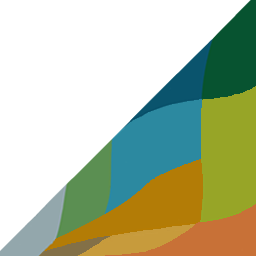
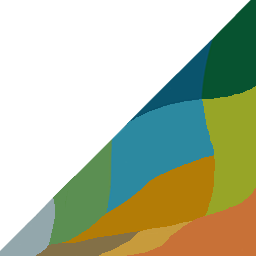
climate tweaks + river mouth width modifier

diff --git a/src/main/java/com/terraforged/world/terrain/decorator/DesertDunes.java b/src/main/java/com/terraforged/world/terrain/decorator/DesertDunes.java
@@ -27,6 +27,7 @@ package com.terraforged.world.terrain.decorator;
 
 import com.terraforged.core.cell.Cell;
 import com.terraforged.world.GeneratorContext;
+import com.terraforged.world.biome.BiomeType;
 import com.terraforged.world.heightmap.Levels;
 import com.terraforged.world.terrain.Terrain;
 import com.terraforged.world.terrain.Terrains;
@@ -43,7 +44,7 @@ public class DesertDunes implements Decorator {
 
     private final Levels levels;
     private final Terrains terrains;
-    private final Terrain dunes = new Terrain("dunes", 100);
+    private final Terrain dunes = new Terrain("dunes", 1);
 
     public DesertDunes(GeneratorContext context) {
         this.climateMin = 0.6F;
@@ -58,18 +59,18 @@ public class DesertDunes implements Decorator {
 
     @Override
     public boolean apply(Cell cell, float x, float y) {
-        float temp = cell.temperature;
-        float moisture = 1 - cell.moisture;
-        float climate = temp * moisture;
-        if (climate < climateMin) {
+        if (BiomeType.DESERT != cell.biomeType) {
+            return false;
+        }
+
+        if (cell.terrainType != terrains.plains && cell.terrainType != terrains.steppe) {
             return false;
         }
 
         float duneHeight = module.getValue(x, y);
-        float climateMask = climate > climateMax ? 1F : (climate - climateMin) / climateRange;
-        float regionMask = cell.mask(0.4F, 0.5F, 0,0.8F);
+        float mask = cell.biomeEdge * cell.riverMask * cell.regionEdge;
 
-        float height = duneHeight * climateMask * regionMask;
+        float height = duneHeight * mask;
         cell.value += height;
         cell.terrainType = dunes;
 

diff --git a/src/main/java/com/terraforged/world/rivermap/river/River.java b/src/main/java/com/terraforged/world/rivermap/river/River.java
@@ -32,6 +32,7 @@ import com.terraforged.world.terrain.Terrains;
 import me.dags.noise.Module;
 import me.dags.noise.Source;
 import me.dags.noise.func.CurveFunc;
+import me.dags.noise.func.Interpolation;
 import me.dags.noise.func.SCurve;
 import me.dags.noise.source.Line;
 import me.dags.noise.util.NoiseUtil;
@@ -139,8 +140,9 @@ public class River extends TerrainPopulator implements Comparable<River> {
             return;
         }
 
+        float mouthModifier = getMouthModifier(cell);
         float widthModifier = banks.getWidthModifier(x, z);
-        float banksAlpha = banks.getValue(x, z, MIN_WIDTH2, widthModifier);
+        float banksAlpha = banks.getValue(x, z, MIN_WIDTH2, widthModifier / mouthModifier);
         if (banksAlpha == 0) {
             return;
         }
@@ -187,6 +189,9 @@ public class River extends TerrainPopulator implements Comparable<River> {
         // lerp the position's height to the riverbed height (ie the riverbank slopes)
         if (cell.value > bedHeight) {
             cell.value = NoiseUtil.lerp(cell.value, bedHeight, banksAlpha);
+            if (cell.value < bedHeight) {
+                cell.value = bedHeight;
+            }
             tag(cell, terrains.riverBanks);
             return true;
         }
@@ -198,6 +203,10 @@ public class River extends TerrainPopulator implements Comparable<River> {
         tag(cell, terrains.river);
     }
 
+    private float getMouthModifier(Cell cell) {
+        float modifier = NoiseUtil.map(cell.continentEdgeRaw, 0F, 0.5F, 0.5F);
+        return modifier * modifier;
+    }
 
     private void tag(Cell cell, Terrain tag) {
         cell.terrainType = tag;

diff --git a/src/main/java/com/terraforged/world/climate/ClimateModule.java b/src/main/java/com/terraforged/world/climate/ClimateModule.java
@@ -91,7 +91,11 @@ public class ClimateModule {
                 .warp(seed.next(), tempScale, 1, tempScale);
     }
 
-    public void apply(Cell cell, float x, float y, boolean mask) {
+    public void apply(Cell cell, float x, float y) {
+        apply(cell, x, y, false, true);
+    }
+
+    public void apply(Cell cell, float x, float y, boolean maskOnly, boolean mask) {
         float ox = warpX.getValue(x, y) * warpStrength;
         float oz = warpZ.getValue(x, y) * warpStrength;
 
@@ -139,14 +143,17 @@ public class ClimateModule {
             }
         }
 
-        if (mask) {
+        if (maskOnly) {
             cell.biomeEdge = edgeValue(edgeDistance, edgeDistance2);
         } else {
             float biomeX = cellX + vec2f.x;
             float biomeY = cellY + vec2f.y;
 
+            if (mask) {
+                cell.biomeEdge = edgeValue(edgeDistance, edgeDistance2);
+            }
+
             cell.biome = cellValue(seed, cellX, cellY);
-            cell.biomeEdge = edgeValue(edgeDistance, edgeDistance2);
             cell.moisture = moisture.getValue(biomeX, biomeY);
             cell.temperature = temperature.getValue(biomeX, biomeY);
             modifyMoisture(cell, biomeX / biomeFreq, biomeY / biomeFreq);
@@ -177,6 +184,9 @@ public class ClimateModule {
         EdgeFunc edge = EdgeFunc.DISTANCE_2_DIV;
         float value = edge.apply(distance, distance2);
         value = 1 - NoiseUtil.map(value, edge.min(), edge.max(), edge.range());
+        if (true) {
+            return value;
+        }
         if (value > edgeClamp) {
             return 1F;
         }

diff --git a/src/main/java/com/terraforged/world/terrain/decorator/DesertStacks.java b/src/main/java/com/terraforged/world/terrain/decorator/DesertStacks.java
@@ -31,6 +31,7 @@ import com.terraforged.world.biome.BiomeType;
 import com.terraforged.world.heightmap.Levels;
 import me.dags.noise.Module;
 import me.dags.noise.Source;
+import me.dags.noise.util.NoiseUtil;
 
 public class DesertStacks implements Decorator {
 
@@ -45,10 +46,9 @@ public class DesertStacks implements Decorator {
         Module shape = Source.perlin(seed.next(), 25, 1).clamp(0.6, 1).map(0, 1)
                 .mult(Source.perlin(seed.next(), 8, 1).alpha(0.1));
 
-        Module top = Source.perlin(seed.next(), 4, 1).alpha(0.25);
+        Module top = Source.perlin(seed.next(), 4, 2).alpha(0.35);
 
-        Module scale = Source.perlin(seed.next(), 400, 1)
-                .clamp(levels.scale(20), levels.scale(35));
+        Module scale = Source.perlin(seed.next(), 400, 1).scale(0.5);
 
         Module stack = (x, y) -> {
             float value = shape.getValue(x, y);
@@ -75,7 +75,7 @@ public class DesertStacks implements Decorator {
         }
 
         float value = module.getValue(x, y);
-        value *= cell.biomeEdge;
+        value *= cell.biomeEdge * NoiseUtil.map(cell.riverMask,0, 0.0005F, 0.0005F);
         cell.value += value;
 
         return value > levels.unit;

diff --git a/src/main/java/com/terraforged/world/heightmap/WorldHeightmap.java b/src/main/java/com/terraforged/world/heightmap/WorldHeightmap.java
@@ -182,19 +182,19 @@ public class WorldHeightmap implements Heightmap {
     @Override
     public void applyClimate(Cell cell, float x, float z) {
         // apply climate data
+        climate.apply(cell, x, z);
         if (cell.value <= levels.water) {
-            climate.apply(cell, x, z, false);
             if (cell.terrainType == terrain.coast) {
                 cell.terrainType = terrain.ocean;
             }
-        } else {
+        } else if (cell.biomeEdge < 0.3F) {
             int range = settings.climate.biomeEdgeShape.strength;
             float dx = climate.getOffsetX(x, z, range);
             float dz = climate.getOffsetZ(x, z, range);
             float px = x + dx;
             float pz = z + dz;
             tag(cell, px, pz);
-            climate.apply(cell, px, pz, false);
+            climate.apply(cell, px, pz, false, false);
         }
     }
 

diff --git a/src/main/java/com/terraforged/world/WorldDecorators.java b/src/main/java/com/terraforged/world/WorldDecorators.java
@@ -1,5 +1,5 @@
 /*
- *   
+ *
  * MIT License
  *
  * Copyright (c) 2020 TerraForged
@@ -26,6 +26,7 @@
 package com.terraforged.world;
 
 import com.terraforged.world.terrain.decorator.Decorator;
+import com.terraforged.world.terrain.decorator.DesertDunes;
 import com.terraforged.world.terrain.decorator.DesertStacks;
 import com.terraforged.world.terrain.decorator.Wetlands;
 
@@ -40,6 +41,7 @@ public class WorldDecorators {
     public WorldDecorators(GeneratorContext context) {
         context = context.copy();
         List<Decorator> list = new ArrayList<>();
+        list.add(new DesertDunes(context));
         list.add(new DesertStacks(context.seed, context.levels));
         list.add(new Wetlands(context.seed, context.terrain, context.levels));
         decorators = Collections.unmodifiableList(list);

diff --git a/src/main/java/com/terraforged/world/rivermap/Rivermap.java b/src/main/java/com/terraforged/world/rivermap/Rivermap.java
@@ -5,6 +5,7 @@ import com.terraforged.core.concurrent.cache.ExpiringEntry;
 import com.terraforged.world.heightmap.Heightmap;
 import com.terraforged.world.rivermap.lake.Lake;
 import com.terraforged.world.rivermap.river.River;
+import me.dags.noise.Source;
 import me.dags.noise.domain.Domain;
 
 import java.util.List;
@@ -26,7 +27,7 @@ public class Rivermap implements ExpiringEntry {
         this.rivers = rivers;
         this.lakeWarp = Domain.warp(++seed, 200, 1, 400)
                 .add(Domain.warp(++seed, 50, 2, 50));
-        this.riverWarp = Domain.warp(++seed, 400, 1, 400)
+        this.riverWarp = Domain.warp(++seed, 400, 1, 350)
                 .add(Domain.warp(++seed, 80, 1, 35))
                 .add(Domain.warp(++seed, 16, 1, 2))
         ;

diff --git a/src/main/java/com/terraforged/core/settings/ClimateSettings.java b/src/main/java/com/terraforged/core/settings/ClimateSettings.java
@@ -12,7 +12,7 @@ public class ClimateSettings {
 
     public RangeValue temperature = new RangeValue(3, 0, 1F, 0);
 
-    public RangeValue moisture = new RangeValue(2, 0, 1F, 0);
+    public RangeValue moisture = new RangeValue(6, 2, 0, 1F, 0);
 
     public BiomeShape biomeShape = new BiomeShape();
 
@@ -46,9 +46,14 @@ public class ClimateSettings {
         }
 
         public RangeValue(int falloff, float min, float max, float bias) {
+            this(6, falloff, min, max, bias);
+        }
+
+        public RangeValue(int scale, int falloff, float min, float max, float bias) {
             this.min = min;
             this.max = max;
             this.bias = bias;
+            this.scale = scale;
             this.falloff = falloff;
         }
 

diff --git a/src/main/java/com/terraforged/core/settings/RiverSettings.java b/src/main/java/com/terraforged/core/settings/RiverSettings.java
@@ -39,11 +39,11 @@ public class RiverSettings {
     @Comment("Controls the number of major rivers per continent")
     public int riverCount = 15;
 
-    public River primaryRivers = new River(5, 2, 8, 25, 8, 0.9F);
+    public River primaryRivers = new River(5, 2, 8, 20, 8, 0.95F);
 
-    public River secondaryRiver = new River(4, 1, 6, 15, 5, 0.9F);
+    public River secondaryRiver = new River(4, 1, 6, 14, 5, 0.95F);
 
-    public River tertiaryRivers = new River(3, 0, 4, 10, 4, 0.9F);
+    public River tertiaryRivers = new River(3, 0, 4, 8, 4, 0.95F);
 
     public Lake lake = new Lake();
 

diff --git a/src/main/java/com/terraforged/core/region/Region.java b/src/main/java/com/terraforged/core/region/Region.java
@@ -292,7 +292,9 @@ public class Region implements Disposable {
                     float x = ((chunk.getBlockX() + dx) * zoom) + translateX;
                     float z = ((chunk.getBlockZ() + dz) * zoom) + translateZ;
                     for (Decorator decorator : decorators) {
-                        decorator.apply(cell, x, z);
+                        if (decorator.apply(cell, x, z)) {
+                            break;
+                        }
                     }
                 });
             }

diff --git a/src/main/java/com/terraforged/world/climate/Climate.java b/src/main/java/com/terraforged/world/climate/Climate.java
@@ -80,8 +80,12 @@ public class Climate {
         return treeLine.getValue(x, z);
     }
 
-    public void apply(Cell cell, float x, float z, boolean mask) {
-        biomeNoise.apply(cell, x, z, mask);
+    public void apply(Cell cell, float x, float z) {
+        apply(cell, x, z, false, true);
+    }
+
+    public void apply(Cell cell, float x, float z, boolean maskOnly, boolean mask) {
+        biomeNoise.apply(cell, x, z, maskOnly, mask);
         modifyTemp(cell, x, z);
     }
 
